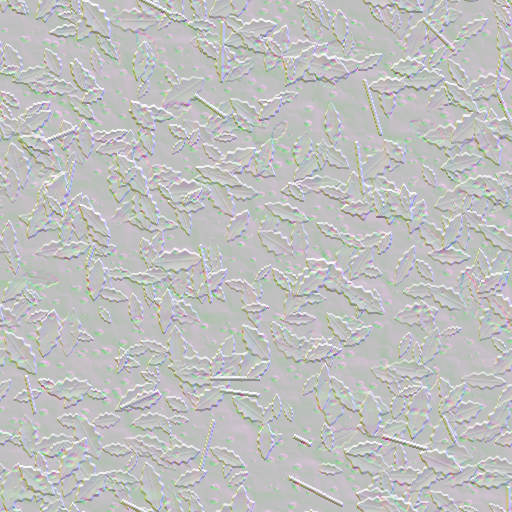
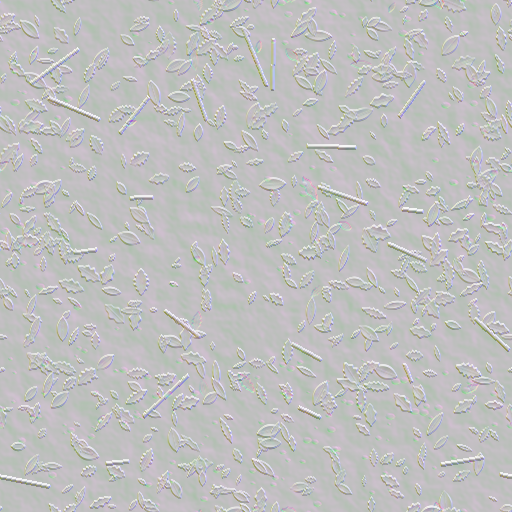
Vary forest floor patches and blend moss consistently across distance

diff --git a/src/runtime/ground-trial.ts b/src/runtime/ground-trial.ts
@@ -13,6 +13,7 @@ import heightsURL from '../../assets/floor/trial/heights.png';
 import normalsURL from '../../assets/floor/trial/normals.png';
 import soilURL from '../../assets/floor/trial/soil.png';
 import litterURL from '../../assets/floor/trial/litter.png';
+import materialInfo from '../../assets/floor/trial/material.json';
 import './ground-trial.css';
 
 export type GroundTrialMode=0|1|2;
@@ -44,18 +45,24 @@ class GroundRelief extends MaterialPluginBase {
     let trialEN=vec2f(fragmentInputs.vPositionW.x,-fragmentInputs.vPositionW.z);
     let trialMask=1.0;
     let trialDistance=distance(scene.vEyePosition.xyz,fragmentInputs.vPositionW);
-    let trialOriginalUV=trialEN/2.4;
+    // Continuous world warp breaks the repetition without multiplying texture reads in POM.
+    let trialOriginalUV=vec2f(0.8660254*trialEN.x-0.5*trialEN.y,0.5*trialEN.x+0.8660254*trialEN.y)/3.2+(groundField.ba-0.5)*0.9;
     // Derivatives are computed before any divergent branch, including the POM loop.
     let trialDx=dpdx(trialOriginalUV);let trialDy=dpdy(trialOriginalUV);
+    let groundDx=dpdx(trialEN);let groundDy=dpdy(trialEN);
+    let groundDet=groundDx.x*groundDy.y-groundDx.y*groundDy.x;
+    let groundSafeDet=select(-max(abs(groundDet),0.0000001),max(abs(groundDet),0.0000001),groundDet>=0.0);
+    let groundJacE=(trialDx*groundDy.y-trialDy*groundDx.y)/groundSafeDet;
+    let groundJacN=(trialDy*groundDx.x-trialDx*groundDy.x)/groundSafeDet;
     if(uniforms.trialMode>0.5&&trialDistance<26.0){
-     let trialForest=trailForest(trialEN);
+     let trialForest=groundCover;
      let trialNear=1.0-smoothstep(7.0,14.0,trialDistance);
      let trialFacing=max(0.0,dot(viewDirectionW,normalW));
      let trialParallax=trialNear*trialMask*smoothstep(0.08,0.3,trialFacing);
      var trialUV=trialOriginalUV;
      if(uniforms.trialMode>1.5&&trialParallax>0.001){
       // Real-world relief is 6.5 cm, attenuated at grazing angles and beyond 7 m.
-      let trialRay=vec2f(viewDirectionW.x,-viewDirectionW.z)/max(0.25,trialFacing)*(0.065/2.4)*trialParallax;
+      let trialRay=(groundJacE*viewDirectionW.x-groundJacN*viewDirectionW.z)/max(0.25,trialFacing)*0.065*trialParallax;
       var rayUV=trialOriginalUV+trialRay*0.55;
       var previousUV=rayUV;var previousGap=0.0;
       var level=1.0;let stepUV=trialRay/16.0;
@@ -74,11 +81,13 @@ class GroundRelief extends MaterialPluginBase {
      }
      let trialData=textureSampleGrad(trialHeight,trialHeightSampler,trialUV,trialDx,trialDy);
      let trialMix=trialBlend(trialData.rg,trialForest);
-     let trialEarth=textureSampleGrad(trialSoil,trialSoilSampler,trialUV,trialDx,trialDy).rgb;
+     let trialEarth=textureSampleGrad(trialSoil,trialSoilSampler,trialUV,trialDx,trialDy);
      let trialLeaves=textureSampleGrad(trialLitter,trialLitterSampler,trialUV,trialDx,trialDy).rgb;
      let trialCavity=mix(trialData.b,trialData.a,trialMix);
-     let trialColour=mix(trialEarth,trialLeaves,trialMix)*(0.88+0.12*trialCavity);
-     // Keep the accepted distant palette; no detail texture reads beyond 26 m.
+     let groundMossFine=groundMoss*(1.0-0.9*trialMix)*smoothstep(0.0,0.75,trialEarth.a+groundMoss*0.25);
+     let groundMossColour=vec3f(0.25,0.33,0.17)*(0.83+0.34*trialEarth.a);
+     let trialColour=mix(mix(trialEarth.rgb,trialLeaves,trialMix),groundMossColour,groundMossFine)*(0.88+0.12*trialCavity);
+     // The same leaf/moss field also controls the distant palette, avoiding a moving colour boundary.
      let trialDetail=trialMask*(1.0-smoothstep(17.0,26.0,trialDistance));
      baseColor=vec4f(mix(baseColor.rgb,trialColour,trialDetail),baseColor.a);
      let trialNormals=textureSampleGrad(trialNormal,trialNormalSampler,trialUV,trialDx,trialDy)*2.0-1.0;
@@ -86,7 +95,8 @@ class GroundRelief extends MaterialPluginBase {
      let trialZ=sqrt(max(0.06,1.0-dot(trialXY,trialXY)));
      let trialEast=normalize(vec3f(1.0,-normalW.x/max(0.2,normalW.y),0.0));
      let trialNorth=normalize(cross(normalW,trialEast));
-     let trialPerturbed=normalize(normalW*trialZ+trialEast*trialXY.x+trialNorth*trialXY.y);
+     let groundSlopes=trialXY/trialZ;
+     let trialPerturbed=normalize(normalW+trialEast*dot(groundSlopes,groundJacE*3.2)+trialNorth*dot(groundSlopes,groundJacN*3.2));
      normalW=normalize(mix(normalW,trialPerturbed,trialDetail));
     }
    `,
@@ -105,7 +115,7 @@ export function createGroundTrial(scene:Scene,coarse:StandardMaterial,baseNormal
  const accents=new StandardMaterial('ground-litter',scene);accents.diffuseColor=Color3.White();accents.specularColor=Color3.Black();accents.backFaceCulling=false;
  const details=createGroundDetails(scene,coarse,material,accents,baseNormal);
  const setMode=(mode:GroundTrialMode)=>{for(const plugin of relief)plugin.mode=mode;};
- return {setMode,update:details.update,prepare:details.prepare,stats:()=>({mode:relief[0].mode,bounds:SHOWCASE_GROUND,...details.stats(),textureMiB:5.34,pomSteps:16,pomFade:[7,14]})};
+ return {setMode,update:details.update,prepare:details.prepare,stats:()=>({mode:relief[0].mode,bounds:SHOWCASE_GROUND,...details.stats(),textureMiB:materialInfo.textureMemoryMiBWithMips,materialVersion:materialInfo.version,pomSteps:16,pomFade:[7,14]})};
 }
 
 export function createGroundTrialControls(trial:ReturnType<typeof createGroundTrial>,focus:()=>void,visit:()=>void){

diff --git a/src/runtime/soil-pattern.ts b/src/runtime/soil-pattern.ts
@@ -3,13 +3,33 @@ import {MaterialPluginBase} from '@babylonjs/core/Materials/materialPluginBase.j
 import type {Material} from '@babylonjs/core/Materials/material.js';
 import { ShaderLanguage } from '@babylonjs/core/Materials/shaderLanguage.js';
 import {TRAIL_EDGE_WGSL} from './trail-edge.wgsl.ts';
+import {Texture} from '@babylonjs/core/Materials/Textures/texture.js';
+import type {UniformBuffer} from '@babylonjs/core/Materials/uniformBuffer.js';
+import patchesURL from '../../assets/floor/trial/patches.png';
 
 /** World-sized colour masses keep a readable path and moss beyond the grass radius. */
 export class SoilPattern extends MaterialPluginBase {
- constructor(material:Material){super(material,'SoilPattern',215,{SOIL_PATTERN:true},true,false);this._enable(true);}
+ private patches:Texture|null=null;
+ constructor(material:Material){super(material,'SoilPattern',215,{SOIL_PATTERN:true},true,false);this._enable(true);
+  if(showcaseEnabled){this.patches=new Texture(patchesURL,material.getScene(),false,false);this.patches.gammaSpace=false;this.patches.wrapU=this.patches.wrapV=Texture.CLAMP_ADDRESSMODE;}
+ }
  override isCompatible(language: ShaderLanguage) { return language === ShaderLanguage.WGSL; }
+ override getSamplers(s:string[]){if(this.patches)s.push('groundPatches');}
+ override getActiveTextures(t:Texture[]){if(this.patches)t.push(this.patches);}
+ override bindForSubMesh(u:UniformBuffer){if(this.patches)u.setTexture('groundPatches',this.patches);}
  override getCustomCode(type: string){if(type!=='fragment')return null;
-  return {CUSTOM_FRAGMENT_DEFINITIONS:showcaseEnabled?TRAIL_EDGE_WGSL:'',CUSTOM_FRAGMENT_UPDATE_DIFFUSE:`
+  if(showcaseEnabled)return {CUSTOM_FRAGMENT_DEFINITIONS:TRAIL_EDGE_WGSL+'\nvar groundPatchesSampler:sampler;var groundPatches:texture_2d<f32>;',CUSTOM_FRAGMENT_UPDATE_DIFFUSE:`
+   let e=fragmentInputs.vPositionW.x;let n=-fragmentInputs.vPositionW.z;
+   let groundField=textureSample(groundPatches,groundPatchesSampler,vec2f((e+256.0)/512.0,(n+256.0)/640.0));
+   let groundForest=trailForest(vec2f(e,n));
+   let groundMoss=groundField.g*groundForest*0.9;
+   let groundCover=groundForest*(0.12+0.88*groundField.r)*(1.0-0.65*groundMoss);
+   let groundFarSoil=mix(vec3f(0.50,0.435,0.325),vec3f(0.41,0.355,0.25),groundCover);
+   let groundFarColour=mix(groundFarSoil,vec3f(0.27,0.36,0.19),groundMoss*(1.0-0.7*groundCover));
+   let groundGrain=dot(baseColor.rgb,vec3f(0.30,0.59,0.11));
+   baseColor=vec4f(groundFarColour*(0.94+0.12*groundGrain),baseColor.a);
+  `};
+  return {CUSTOM_FRAGMENT_DEFINITIONS:'',CUSTOM_FRAGMENT_UPDATE_DIFFUSE:`
    let e=fragmentInputs.vPositionW.x;let n=-fragmentInputs.vPositionW.z;
    let moss=0.5+0.25*sin(e*0.38+n*0.23)+0.25*sin(e*0.17-n*0.42);
    let edge=abs(e-${showcaseEnabled?'(17.0*sin(n*0.019)+6.0*sin(n*0.047))':'sin(n*0.075)*1.3'})+0.12*sin(n*3.1+e*1.5);

diff --git a/src/domain/floor-patch.ts b/src/domain/floor-patch.ts
@@ -1,5 +1,6 @@
 import {showcaseEnabled} from './showcase.ts';
 import {trailClearance} from './trail-edge.ts';
+import {groundPatch} from './ground-patches.ts';
 import {groundHeight,pathCentre} from './harness.ts';
 import type {Box} from './harness.ts';
 import {FOREST_BOUNDS} from './forest.ts';
@@ -27,11 +28,12 @@ export function makeFloorPatch(cx:number,cz:number,boxes:Box[],height=groundHeig
   g.positions.push(x,y,z);g.uvs.push(u,v);g.colors.push(...c,1);
   g.heights.push(Math.max(0,y-height(x,-z)+.06));
  }
- // Jittered, clustered tufts in the showcase; the historical M1 keeps its original seed sequence.
+ // Full-cell candidates with world-anchored patches; no repeating empty half of an 8 m tile.
  for(let i=0;i<(lush?205:65);i++){
-  const e=cx*8+(lush?((i%20)+random())*.4:random()*8),n=cz*8+(lush?(Math.floor(i/20)+random())*.4:random()*8);
-  const patch=.5+.25*Math.sin(e*.35+n*.21)+.25*Math.sin(e*.71-n*.28);
-  if(!allowed(e,n,.15)||random()>(lush?.42+patch*.53:patch*.8))continue;
+  const e=cx*8+(lush&&!showcaseEnabled?((i%20)+random())*.4:random()*8),n=cz*8+(lush&&!showcaseEnabled?(Math.floor(i/20)+random())*.4:random()*8);
+  const field=showcaseEnabled?groundPatch(e,n):null;
+  const patch=field?.moss??(.5+.25*Math.sin(e*.35+n*.21)+.25*Math.sin(e*.71-n*.28));
+  if(!allowed(e,n,.15)||random()>(showcaseEnabled?.15+patch*.7: lush?.42+patch*.53:patch*.8))continue;
   const h=(lush?.20:.13)+random()*(lush?.27:.22),grassHue=random();
   const grassBase=grassHue<.34?[.26,.50,.43]:grassHue<.68?[.36,.54,.30]:[.24,.45,.40];
   for(let blade=0;blade<(lush?3:4);blade++){
@@ -47,8 +49,9 @@ export function makeFloorPatch(cx:number,cz:number,boxes:Box[],height=groundHeig
  // One atlas and curved strips, no geometry for each fern leaflet.
  for(let plant=0;plant<(lush?126:14);plant++){
   const e=cx*8+random()*8,n=cz*8+random()*8;
-  const patch=.5+.25*Math.sin(e*.35+n*.21)+.25*Math.sin(e*.71-n*.28);
-  if(!allowed(e,n,.6)||random()>(lush?.30+patch*.68:patch))continue;
+  const field=showcaseEnabled?groundPatch(e,n):null;
+  const patch=field?.moss??(.5+.25*Math.sin(e*.35+n*.21)+.25*Math.sin(e*.71-n*.28));
+  if(!allowed(e,n,.6)||random()>(showcaseEnabled?.1+patch*.65: lush?.30+patch*.68:patch))continue;
   const fern=lush?random()<.72:plant<5,len=(fern?(lush?.66:.62):.35)+random()*(fern?(lush?.26:.28):.20),count=fern?7:5,rotation=random()*Math.PI*2;
   const quadrant=(fern?0:1)+(random()>.5?2:0),centreU=quadrant%2===0?.25:.75,baseV=quadrant<2?.505:.005;
   const tint=.84+random()*.24,leafHue=random();

diff --git a/src/runtime/ground-detail.ts b/src/runtime/ground-detail.ts
@@ -10,6 +10,7 @@ import type {Scene} from '@babylonjs/core/scene.js';
 import type {Point3} from '../domain/harness.ts';
 import {SHOWCASE_GROUND,groundDetailVertexHeight,showcaseBaseHeight,showcaseHeight,showcasePath} from '../domain/showcase.ts';
 import {trailClearance} from '../domain/trail-edge.ts';
+import {groundPatch} from '../domain/ground-patches.ts';
 import {createRandom,seedFor} from '../domain/seed.ts';
 import {CoverFade} from './cover-fade.ts';
 
@@ -105,13 +106,14 @@ function makeAccentTile(scene:Scene,cx:number,cn:number,material:StandardMateria
  for(let i=0;i<38;i++){
   const n=cn*8+random()*8,e=cx*8+random()*8;
   if(trailClearance(e,n,showcasePath(n))<-.2)continue;
+  const patch=groundPatch(e,n);if(random()>.08+.85*patch.leaves*(1-.6*patch.moss))continue;
   const len=.07+random()*.085,width=len*.4,angle=random()*Math.PI*2,k=positions.length/3;
   const c=[.37+random()*.07,.32+random()*.05,.19+random()*.05];
   for(const [x,z,y] of [[-len,0,.006],[0,-width,.009],[0,0,.025+random()*.015],[0,width,.012],[len,0,.035]])add(e+x*Math.cos(angle)-z*Math.sin(angle),n+x*Math.sin(angle)+z*Math.cos(angle),y,c);
   indices.push(k,k+1,k+2,k+1,k+4,k+2,k+4,k+3,k+2,k+3,k,k+2);
  }
  for(let i=0;i<2;i++){
-  const n=cn*8+random()*8,e=cx*8+random()*8;if(trailClearance(e,n,showcasePath(n))<-.1)continue;
+  const n=cn*8+random()*8,e=cx*8+random()*8;if(trailClearance(e,n,showcasePath(n))<-.1||random()>.18+.7*groundPatch(e,n).leaves)continue;
   const a=random()*6.28,len=.3+random()*.6,r=.018+random()*.014,k=positions.length/3;
   for(let end=0;end<2;end++)for(let side=0;side<6;side++){
    const t=side/6*Math.PI*2,w=Math.cos(t)*r;

diff --git a/src/domain/cover-field.ts b/src/domain/cover-field.ts
@@ -1,4 +1,6 @@
 import {groundHeight,pathCentre} from './harness.ts';
+import {showcaseEnabled} from './showcase.ts';
+import {groundPatch} from './ground-patches.ts';
 import type {Box} from './harness.ts';
 import {FOREST_BOUNDS} from './forest.ts';
 import {createRandom,seedFor} from './seed.ts';
@@ -15,8 +17,8 @@ export function makeCoverTile(cx:number,cz:number,layer:'far'|'mid',boxes:readon
  for(let j=0;j<grid;j++)for(let i=0;i<grid;i++){
   const r=createRandom(seedFor('showcase-cover-v1',layer,cx*grid+i,cz*grid+j));
   const e=e0+(i+.15+r()*.7)*step,n=n0+(j+.15+r()*.7)*step;
-  const patch=.5+.25*Math.sin(e*.35+n*.21)+.25*Math.sin(e*.71-n*.28);
-  if(r()>.48+patch*.48||Math.abs(e-pathCentre(n))<2.5)continue;
+  const patch=showcaseEnabled?groundPatch(e,n).moss:.5+.25*Math.sin(e*.35+n*.21)+.25*Math.sin(e*.71-n*.28);
+  if(r()>(showcaseEnabled?.2+patch*.65:.48+patch*.48)||Math.abs(e-pathCentre(n))<2.5)continue;
   if(e<FOREST_BOUNDS.minE||e>FOREST_BOUNDS.maxE||n<FOREST_BOUNDS.minN||n>FOREST_BOUNDS.maxN)continue;
   if(nearby.some(b=>e>b.min.x-.7&&e<b.max.x+.7&&-n>b.min.z-.7&&-n<b.max.z+.7))continue;
   if(Math.hypot(height(e+.25,n)-height(e-.25,n),height(e,n+.25)-height(e,n-.25))*2>=.85)continue;

diff --git a/src/domain/ground-patches.ts b/src/domain/ground-patches.ts
@@ -1,0 +1,22 @@
+import {trailHash} from './trail-edge.ts';
+
+/** World-anchored ecological patches, shared by the material bake and small-object placement. */
+export const GROUND_FIELD={minE:-256,minN:-256,width:512,height:640,pixelsE:256,pixelsN:320} as const;
+const clamp=(x:number)=>Math.max(0,Math.min(1,x));
+const smooth=(a:number,b:number,x:number)=>{const t=clamp((x-a)/(b-a));return t*t*(3-2*t);};
+export function groundNoise(e:number,n:number,seed:number){
+ const x=Math.floor(e),y=Math.floor(n),u=smooth(0,1,e-x),v=smooth(0,1,n-y);
+ const h=(a:number,b:number)=>trailHash(a,(Math.imul(b,31337)+seed)>>>0);
+ return ((h(x,y)*(1-u)+h(x+1,y)*u)*(1-v)+(h(x,y+1)*(1-u)+h(x+1,y+1)*u)*v)*2-1;
+}
+export function groundPatch(e:number,n:number){
+ const leaves=smooth(.18,.82,.5+.55*groundNoise(e*.11,n*.11,41)+.3*groundNoise(e*.37,n*.37,101));
+ const moss=smooth(.25,.75,.5+.6*groundNoise(e*.065+37,n*.065-13,73)+.22*groundNoise(e*.21-7,n*.21+5,151));
+ return {leaves,moss};
+}
+export function groundWarp(e:number,n:number){
+ return [
+  .5+.32*groundNoise(e*.09+71,n*.09-19,307)+.15*groundNoise(e*.22,n*.22,503),
+  .5+.32*groundNoise(e*.09-23,n*.09+41,701)+.15*groundNoise(e*.22,n*.22,907),
+ ];
+}

diff --git a/README.md b/README.md
@@ -11,7 +11,9 @@
 
 С 12 сентября поддерживается только WebGPU. Запасной WebGL 2 и переключатель удалены. При недоступности WebGPU приложение сообщает об этом. Это изменение не означает гарантии работы на любом устройстве.
 
-Земля с нормалями и глубиной (POM) работает по всему шоукейсу 512 × 640 м. Левый и правый края тропы имеют независимую нерегулярную ширину и мелкие выступы подстилки. Панель «Земля под ногами» сохраняет сравнение трёх материалов без изменения ракурса. Неглубокие колеи, бугры и объёмная подстилка подгружаются вокруг героя: до 25 плиток по 8 × 8 м, с плавным переходом к основному рельефу на периферии. POM плавно выключается на расстоянии 7–14 м от камеры. Четыре общие процедурные карты 512 × 512 занимают около 5,3 МБ с mip-уровнями; их источник — `tools/generate-ground-trial.mjs`. Meshy для этой земли не использовался.
+Земля с нормалями и глубиной (POM) работает по всему шоукейсу 512 × 640 м. Левый и правый края тропы имеют независимую нерегулярную ширину и мелкие выступы подстилки. Панель «Земля под ногами» сохраняет сравнение трёх материалов без изменения ракурса. Неглубокие колеи, бугры и объёмная подстилка подгружаются вокруг героя: до 25 плиток по 8 × 8 м, с плавным переходом к основному рельефу на периферии. POM плавно выключается на расстоянии 7–14 м от камеры.
+
+Карта участков задаёт разную плотность листьев, мха и растительности по территории. Она общая для ближнего материала, дальнего цвета земли и размещения мелких объектов. Плавное искажение координат текстуры разбивает повторение без дополнительных чтений высоты в цикле POM; карта нормалей учитывает это искажение. Трава в шоукейсе распределяется по всей площади каждой плитки. Четыре карты 512 × 512 и одна карта участков 256 × 320 занимают около 5,75 МБ с mip-уровнями. Воспроизведение: `node --experimental-strip-types tools/generate-ground-trial.mjs`. Meshy для этой земли не использовался.
 
 ## Запуск
 
